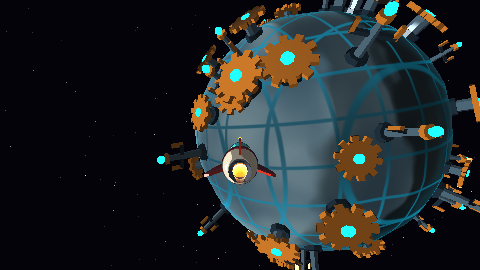
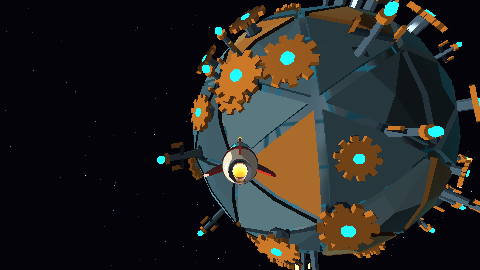
construye carcasa del planeta mecanico

Changed region(s): [[0.4062, 0.0, 0.9688, 0.9481]]

diff --git a/src/mundos/esteban.rs b/src/mundos/esteban.rs
@@ -1,7 +1,8 @@
 use std::f32::consts::TAU;
 
 use crate::config::WORLD_SEED;
-use crate::math::{Mat4, Vec3, smoothstep};
+use crate::math::{Mat4, Vec2, Vec3, smoothstep};
+use crate::mesh::{self, Mesh};
 use crate::noise::{Perlin, Rng};
 use crate::planet::{Orbit, Planet, PlanetDef, Terrain, TerrainKind};
 use crate::planets::model;
@@ -115,11 +116,15 @@ impl Shader for MecanicoShader {
         let bandas = (dir.x * 14.0).sin().abs()
             .min((dir.y * 14.0).sin().abs())
             .min((dir.z * 14.0).sin().abs());
-        let union = 1.0 - smoothstep(0.06, 0.19, bandas);
+        let union = if v.color.x < 0.99 { 0.0 } else { 1.0 - smoothstep(0.06, 0.19, bandas) };
         let panel = Vec3::new(0.24, 0.34, 0.40).lerp(
             Vec3::new(0.44, 0.53, 0.56), smoothstep(-0.4, 0.5, altura),
         );
-        let metal = panel.lerp(Vec3::new(0.08, 0.16, 0.20), union * 0.8);
+        let metal = if v.color.x < 0.99 {
+            v.color
+        } else {
+            panel.lerp(Vec3::new(0.08, 0.16, 0.20), union * 0.8)
+        };
         let pulso = 0.65 + 0.35 * (u.time * 1.5 + dir.y * 6.0).sin();
         let borde = smoothstep(0.6, 1.0, rim(normal, v.world_pos, u.camera_pos));
         metal * toon_diffuse(luz, 0.22)
@@ -142,7 +147,66 @@ fn mecanico() -> Result<Planet, String> {
             placement: Placement::Scatter, scale: (0.75, 1.3), height: (-1.0, 1.0),
             density_frequency: 2.5, density_threshold: -0.08, max_slope: 0.35, sink: 0.05, max_tilt: 0.04 },
     ];
-    Ok(Planet::new(def, Box::new(MecanicoShader { amplitud: terreno.amplitude })).with_props(objetos))
+    let mut planeta = Planet::new(def, Box::new(MecanicoShader { amplitud: terreno.amplitude })).with_props(objetos);
+    let carcasa = carcasa_mecanica(&planeta);
+    // La carcasa se añade a todos los LOD para que se lea también de lejos.
+    for lod in &mut planeta.lods {
+        append_transformed(lod, &carcasa, &Mat4::IDENTITY);
+        lod.compute_bounding_radius();
+        planeta.bounding_radius = planeta.bounding_radius.max(lod.bounding_radius * def.radius);
+    }
+    Ok(planeta)
+}
+
+// Cada cara de la icosfera produce una pieza con volumen y bordes separados.
+fn carcasa_mecanica(planeta: &Planet) -> Mesh {
+    let base = mesh::icosphere(1);
+    let mut carcasa = Mesh::default();
+    for (indice, cara) in base.indices.iter().enumerate() {
+        let a = base.positions[cara[0] as usize];
+        let b = base.positions[cara[1] as usize];
+        let c = base.positions[cara[2] as usize];
+        let centro = (a + b + c).normalize();
+        let esquinas = [a, b, c].map(|p| (p * 0.88 + centro * 0.12).normalize());
+        let contorno = [
+            esquinas[0], (esquinas[0] + esquinas[1]).normalize(),
+            esquinas[1], (esquinas[1] + esquinas[2]).normalize(),
+            esquinas[2], (esquinas[2] + esquinas[0]).normalize(),
+        ];
+        let punto = |dir: Vec3, extra: f32| {
+            dir * (1.0 + planeta.def.terrain.height(&planeta.noise, dir) + extra)
+        };
+        let color = match indice % 5 {
+            0 => Vec3::new(0.67, 0.42, 0.17),
+            1 => Vec3::new(0.35, 0.47, 0.50),
+            _ => Vec3::new(0.25, 0.36, 0.40),
+        };
+        for i in 0..6 {
+            let siguiente = (i + 1) % 6;
+            let superior = punto(contorno[i], 0.035);
+            let superior_sig = punto(contorno[siguiente], 0.035);
+            let inferior = punto(contorno[i], 0.005);
+            let inferior_sig = punto(contorno[siguiente], 0.005);
+            agregar_triangulo(&mut carcasa, [punto(centro, 0.035), superior, superior_sig], color);
+            agregar_triangulo(&mut carcasa, [superior, inferior, inferior_sig], color * 0.55);
+            agregar_triangulo(&mut carcasa, [superior, inferior_sig, superior_sig], color * 0.55);
+        }
+    }
+    carcasa.compute_bounding_radius();
+    carcasa
+}
+
+fn agregar_triangulo(malla: &mut Mesh, puntos: [Vec3; 3], color: Vec3) {
+    let inicio = malla.positions.len() as u32;
+    let normal = (puntos[1] - puntos[0]).cross(puntos[2] - puntos[0]).normalize();
+    for punto in puntos {
+        malla.positions.push(punto);
+        malla.normals.push(normal);
+        malla.uvs.push(Vec2::default());
+        malla.colors.push(color);
+        malla.emissive.push(0.0);
+    }
+    malla.indices.push([inicio, inicio + 1, inicio + 2]);
 }
 
 struct CristalinoShader {
@@ -266,6 +330,8 @@ mod pruebas {
         assert_eq!(a[2].def.orbit.radius, 145.0);
         assert_eq!(a[3].def.orbit.radius, 170.0);
         assert_ne!(a[2].def.seed, a[3].def.seed);
+        assert!(a[2].lods[0].triangle_count() > mesh::icosphere(2).triangle_count());
+        assert_eq!(a[2].lods[0].positions, b[2].lods[0].positions);
         for (primero, segundo) in a.iter().zip(&b) {
             let objetos = primero.props.as_ref().unwrap();
             assert_eq!(objetos.mesh.positions, segundo.props.as_ref().unwrap().mesh.positions);
